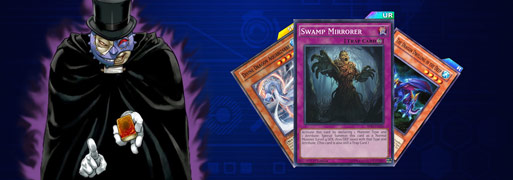
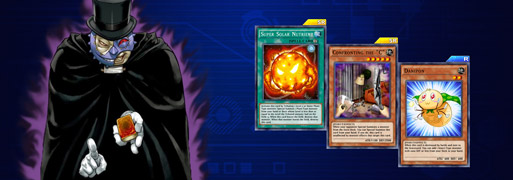
Card Trader Update

diff --git a/_posts/content/news/2018/03/2018-03-07-card-trader-inventory-updated.md b/_posts/content/news/2018/03/2018-03-07-card-trader-inventory-updated.md
@@ -1,13 +1,13 @@
 ---
 layout: blog
-date: 2018-03-07
+date: 2018-03-23
 title: Card Trader Update - March
 author: Yami Hammy
 image: /img/content/news/2018/03/card-trader-update/thumbnail.jpg
 category: news
 comments: true
 description: The Card Trader's inventory has been updated with some new additions to his card pool. Check here for a review by the Top Player Council!
-keywords: news, card trader, card trader inventory, new cards
+keywords: news, card trader, card trader inventory, new cards, march, super solar nutrient, confronting the c, danipon
 permalink: /news/march-2018/card-trader-inventory-updated/
 ---
 
@@ -15,7 +15,34 @@ permalink: /news/march-2018/card-trader-inventory-updated/
 
 ![banner](/img/content/global/card-trader-banner.png)
 
-![screenshot](/img/content/news/2018/03/card-trader-update/slider.jpg)
+## March 23rd Update
+
+![screenshot](/img/content/news/2018/03/card-trader-update/slider-23-03.jpg)
+
+The Card Trader's inventory has been updated with some new additions to his card pool! 
+
+[deck](Super Solar Nutrient; Confronting the "C"; Danipon)
+
+### Top Player Council Opinions 
+
+**[Superforms](/authors/superforms/) says:** 
+
+- {Super Solar Nutrient} SR: The only relevant Plant decks right now are [Sylvans](/guides/deck-types/sylvans-guide-intro-by-superforms/)) and [Aromages](/tier-list/aromages/). Both can tribute {Rose Lover} with this, but neither has a good special summon target ({Aromage Bergamot} and {Sylvan Guardioak} are both level 6, and few Sylvan decks use {Sylvan Lotuswain}). Tributing a Rose Lover to grab another Rose Lover thins the deck and gets multiple Rose Lovers into the graveyard if Super Solar Nutrient is removed. Alternative plays include tributing {Sylvan Komushroomo} for to turbo out {World Carrotweight Champion}, or tributing a {Aromage Jasmine} for a {Aromage Rosemary}. It is not likely that this card will be used in top-tier versions of either deck, although it will be most interesting to test with Sylvans.
+- {Confronting the "C"} SR: The decks on the tier list that use their Extra Decks are Fusion [Destiny Heroes](/tier-list/destiny-heroes/) and [Gladiator Beasts](/guides/deck-types/gladiator-beasts-guide-by-brenduke/) which are both Tier 3. Pretty ineffective wall vs Destiny Heroes, but possibly annoying to Gladiators (being immune to {Gladiator Beast Murmillo} and walling {Gladiator Beast Essedari}). Not a great card right now; maybe better in the future as the Extra Deck becomes more relevant.
+- {Danipon} R: Has to be destroyed by battle to activate its effect, which is unfortunate. It doesn’t have any great search targets either: {Grasschopper}, {Magical Merchant}, {Man-Eater Bug}; none of which are used in a top-tier deck.
+
+### Required Items (will update once known)
+- {Super Solar Nutrient}:
+- {Confronting the "C"}:
+- {Danipon}: 
+
+***The Card Trader is unlocked at Stage 7 and the cards in stock rotate every 8 hours.***
+
+---
+
+## March 7th Update 
+
+![screenshot](/img/content/news/2018/03/card-trader-update/slider-07-03.jpg)
 
 The Card Trader's inventory has been updated with some new additions to his card pool! 
 
@@ -42,6 +69,6 @@ Overall {Swamp Mirrorer} feels like a nice (but slow) consistency piece in decks
 ### Summary
 
 - The sea serpent cards are bad and will likely have no place in current water builds. 
-- {Swamp Mirrorer} has potential in existing decks as well as compatibility with the [leaked Dragon structure deck](/news/february-2018/leaked-structure-decks/). 
+- {Swamp Mirrorer} has much potential in existing decks and in future as well as compatibility with the datamined [Dragon Structure Deck](/news/february-2018/datamined-discoveries/#dragon-structure-deck). 
 
 ***The Card Trader is unlocked at Stage 7 and the cards in stock rotate every 8 hours.***
